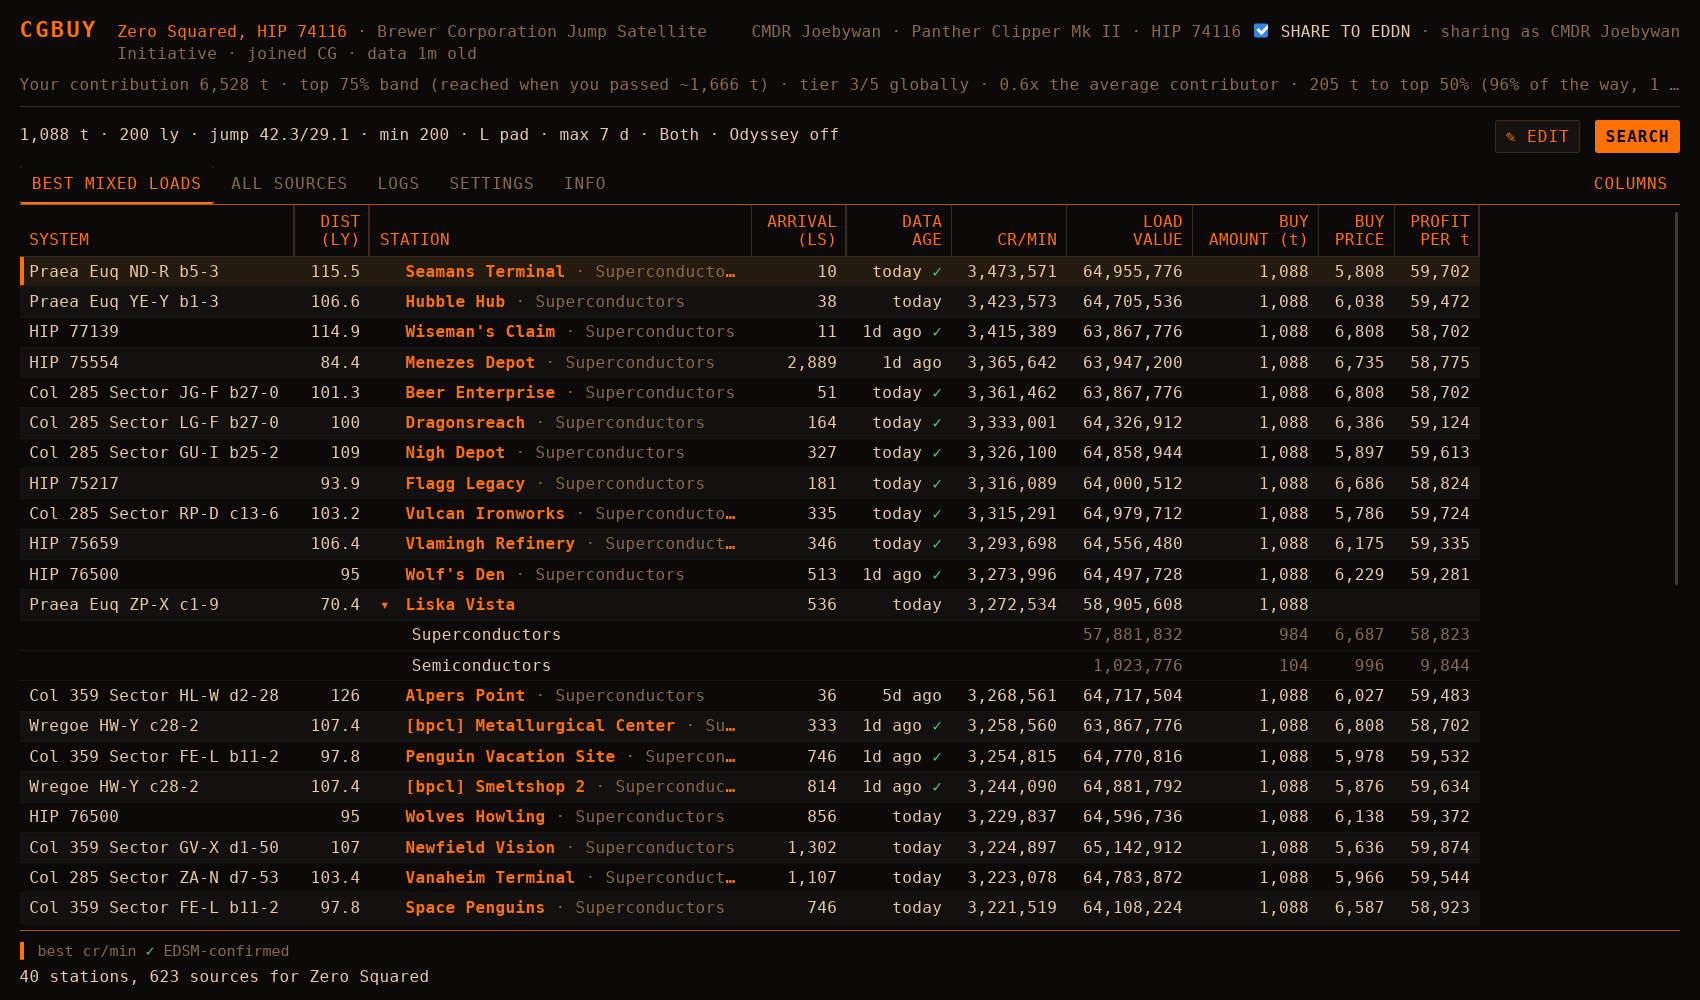
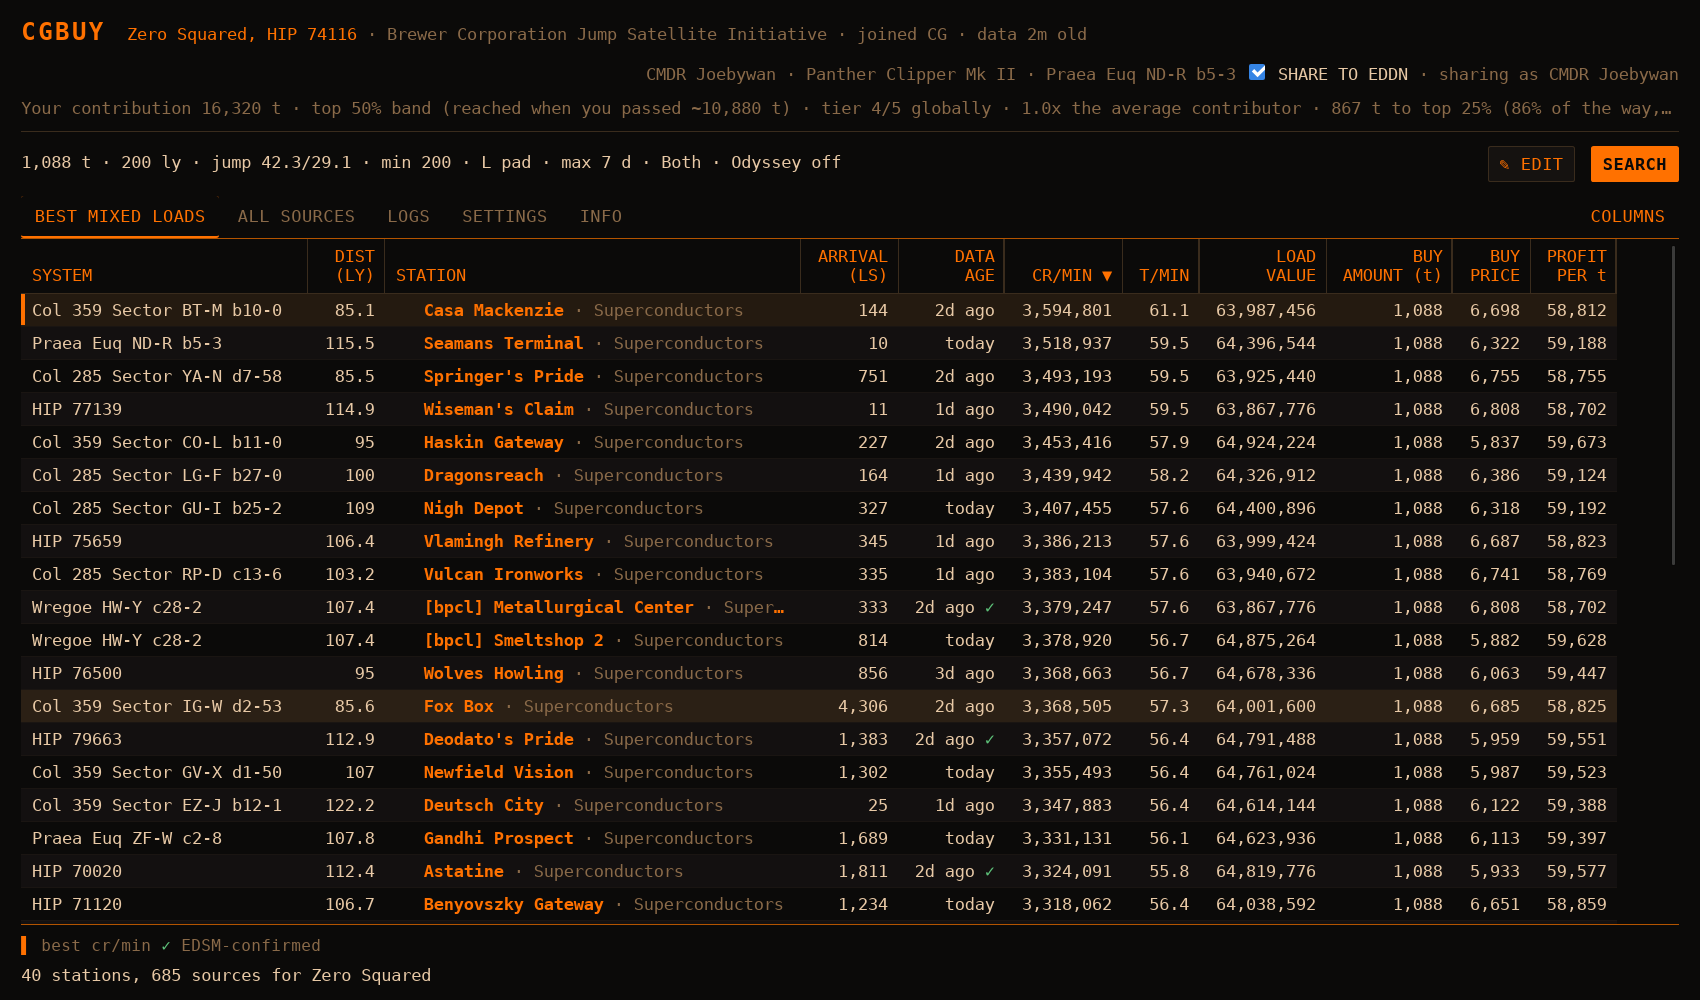
Info tab: analysis of your flying; T/MIN column on best mixed loads
YOUR FLYING on the INFO tab turns the journal calibration into plain
figures: time per jump, undock to first jump, time docked, arrival leg
as a fixed part plus travel per 1,000 Ls, where a round trip's minutes
go, measured round trip and jump range. tripParts() splits tripMinutes
so the breakdown and the ranking share one calculation.

BEST MIXED LOADS gains a sortable T/MIN column for tonnage-rewarded CGs.
Screenshots retaken, INFO screenshot added.

Changed region(s): [[0.0, 0.0, 0.9976, 0.992], [0.9041, 0.775, 0.9353, 0.837], [0.4365, 0.589, 0.4676, 0.62]]

diff --git a/app/app.js b/app/app.js
@@ -9,7 +9,7 @@ import { initSettings } from "./src/settings.js";
 import { VIEWS, colWidths, fitWidth, moveCol, placeCol, toggleCol } from "./src/columns.js";
 import { wireHeaders } from "./src/headers.js";
 import { Sender } from "./src/eddn.js";
-import { JournalState, runMinutes } from "./src/journal.js";
+import { JournalState, runMinutes, timingReport } from "./src/journal.js";
 import { clearLog, formatLog, getLog, formatLine, log, onLog } from "./src/log.js";
 import { SOURCES, searchSources } from "./src/merge.js";
 import { Progress } from "./src/progress.js";
@@ -20,7 +20,7 @@ import { edsmGate } from "./src/edsm.js";
 import { WANT, widen } from "./src/widen.js";
 import { VERSION } from "./src/version.js";
 import { checkForUpdate } from "./src/update.js";
-import { MAX_AGE_DEFAULT, ageTag, ageText, buildMixed, compareValues, hiddenBy, mixedSortValue, padForShip,
+import { MAX_AGE_DEFAULT, tripParts, ageTag, ageText, buildMixed, compareValues, hiddenBy, mixedSortValue, padForShip,
   viewRows, whereItIs } from "./src/model.js";
 
 const $ = (id) => document.getElementById(id);
@@ -237,6 +237,39 @@ function runFigures() {
   if (real) return { hold, mins: real, basis: `the median of your last ${n}, flying time plus a two-minute turnaround at each end` };
   const top = plansNow()[0];
   return { hold, mins: top?.trip_minutes ?? null, basis: "the route plus a two-minute turnaround at each end" };
+}
+
+/** INFO tab, YOUR FLYING: measured timings in plain words plus the current plan's breakdown. */
+function renderInfo() {
+  const box = $("info-flying");
+  const j = S.journal;
+  if (!j) { box.innerHTML = '<dd class="dim">Needs a journal: pick your journal folder (desktop app) to measure your own timings.</dd>'; return; }
+  const rows = timingReport(j.cal);
+  const top = plansNow()[0], r = S.result;
+  if (top && r) {
+    const f = shipFigures() ?? r.p;
+    const t = tripParts(top.ly, top.ls, r.cgLs ?? 0, f.jump_empty, f.jump_laden, j.cal);
+    const sum = Object.values(t).reduce((a, b) => a + b, 0);
+    const pct = (m) => `${m.toFixed(1)} min (${Math.round(m / sum * 100)}%)`;
+    rows.push({ label: "Where a round trip goes", value: `${sum.toFixed(1)} min to ${top.station}`,
+      detail: `jumps ${pct(t.jumps)}, departures ${pct(t.depart)}, arrival legs ${pct(t.arrive)}, docking ${pct(t.dock)}`
+        + (top.penalty ? `; ranked with +${top.penalty} min surface penalty` : "") });
+  }
+  const run = runFigures();
+  if (run.mins && run.basis.startsWith("the median")) {
+    rows.push({ label: "Measured round trip", value: `${run.mins.toFixed(1)} min`, detail: run.basis });
+  }
+  const sf = shipFigures();
+  if (sf?.jump_empty) {
+    rows.push({ label: "Jump range", value: `${sf.jump_empty} ly empty${sf.jump_laden ? `, ${sf.jump_laden} ly laden` : ""}`, detail: "" });
+  }
+  box.replaceChildren(...rows.flatMap((x) => {
+    const dt = document.createElement("dt"), dd = document.createElement("dd");
+    dt.textContent = x.label;
+    dd.textContent = x.value;
+    if (x.detail) { const d = document.createElement("span"); d.className = "dim small"; d.textContent = x.detail; dd.append(d); }
+    return [dt, dd];
+  }));
 }
 
 /** Where you stand in the goal you joined; updates on journal events and Frontier feed refreshes. */
@@ -830,6 +863,7 @@ function render() {
   renderCols();
   $("legend").hidden = true;                 // renderMixed brings it back
   if (S.view === "settings") ui.refresh();
+  if (S.view === "info") renderInfo();
   renderDest();
   const r = S.result;
   const stale = r && S.dest && !sameDest(r.p.dest, S.dest);
@@ -1002,6 +1036,7 @@ function adoptJournal({ state, lines }) {
   };
   // The game writes Market.json and then logs this, so the file is there by
   // the time we are told about it.
+  state.onCalibration = () => { if (S.view === "info") renderInfo(); };
   state.onEvent = (e) => {
     if (EDDN_KINDS.includes(e.event)) shareStation(e.event, e.MarketID ?? null);
   };

diff --git a/app/src/journal.js b/app/src/journal.js
@@ -20,6 +20,13 @@ function median(xs) {
   return s.length % 2 ? s[h] : (s[h - 1] + s[h]) / 2;
 }
 
+/** q-th quantile (0..1), linear between ranks. */
+function quantile(xs, q) {
+  const s = [...xs].sort((a, b) => a - b);
+  const i = (s.length - 1) * q, f = Math.floor(i);
+  return s[f] + (s[Math.min(f + 1, s.length - 1)] - s[f]) * (i - f);
+}
+
 const MIN_SAMPLES = 3;        // below this, one weird run would skew everything
 const MAX_SAMPLES = 200;
 const ARRIVAL_MIN_SPREAD = 3; // furthest/nearest sampled Ls, to fit at all
@@ -280,6 +287,43 @@ export class JournalState {
     if (learned && this.onCalibration) this.onCalibration(cal);
     return learned;
   }
+}
+
+const fmtSecs = (s) => (s < 120 ? `${Math.round(s)} s` : `${(s / 60).toFixed(1)} min`);
+const vs = (secs, defMin) => {
+  const pct = Math.round(Math.abs(secs / (defMin * 60) - 1) * 100);
+  return pct < 1 ? "same as the default estimate" : `${pct}% ${secs < defMin * 60 ? "faster" : "slower"} than the default estimate`;
+};
+
+/** The measured timings in plain words: [{label, value, detail}] for the INFO tab. */
+export function timingReport(cal) {
+  const rows = [];
+  const timing = (label, xs, defMin, suffix, note) => {
+    if (xs.length < MIN_SAMPLES) return rows.push({ label, value: `not enough data yet (n=${xs.length})`, detail: "" });
+    const m = median(xs);
+    const range = `typically ${fmtSecs(quantile(xs, 0.25))} to ${fmtSecs(quantile(xs, 0.75))}`;
+    rows.push({ label, value: fmtSecs(m) + suffix,
+      detail: [range, `n=${xs.length}`, defMin ? vs(m, defMin) : note].join(", ") });
+  };
+  timing("Per jump", cal.jump_secs, 0.85, " per jump");
+  timing("Getting out of the station", cal.depart_secs, 1.8, "");
+  timing("Time docked", cal.dock_secs, 0, "", "the trip model uses a fixed 2 min");
+  const pool = cal.approach_samples, fit = cal.arrivalFit;
+  if (!fit) {
+    rows.push({ label: "Arrival", value: `not enough data yet (n=${pool.length})`,
+      detail: "needs arrivals at stations of varied distance (furthest at least 3x the nearest)" });
+  } else {
+    const [a, , lo, hi] = fit;
+    const per = median(pool.filter(([l]) => l > 0).map(([l, s]) => ((s - a) / l) * 1000));
+    rows.push({ label: "Arrival: fixed part", value: fmtSecs(a),
+      detail: `drop out, approach and docking; n=${pool.length}` });
+    rows.push({ label: "Arrival: travel", value: `~${fmtSecs(Math.max(per, 0))} per 1,000 Ls`,
+      detail: "supercruise speeds up, so far stations cost less per Ls" });
+    rows.push({ label: "Arrival examples", detail: `measured over ${Math.round(lo)}-${Math.round(hi)} Ls`,
+      value: [100, 1000, 10000].map((ls) =>
+        `${ls.toLocaleString("en-US")} Ls: ${fmtSecs(cal.arrivalMinutes(ls) * 60)}${ls < lo || ls > hi ? " (extrapolated)" : ""}`).join(", ") });
+  }
+  return rows;
 }
 
 /**

diff --git a/app/src/model.js b/app/src/model.js
@@ -93,8 +93,8 @@ export function padFits(maxPadSize, pad) {
   return typeof maxPadSize === "number" && maxPadSize >= PAD_SIZE[pad];
 }
 
-/** Round trip in minutes: destination -> source empty, back laden. */
-export function tripMinutes(distLy, srcLs, cgLs, jumpEmpty, jumpLaden, cal = null) {
+/** Where a round trip's minutes go: {jumps, depart, arrive, dock}; tripMinutes sums them. */
+export function tripParts(distLy, srcLs, cgLs, jumpEmpty, jumpLaden, cal = null) {
   const jumpMin = cal?.jumpMinutes || EST_JUMP_MIN;
   const departMin = cal?.departMinutes || EST_DEPART_MIN;
   const scScale = cal?.scScale || EST_SC_SCALE;
@@ -105,9 +105,14 @@ export function tripMinutes(distLy, srcLs, cgLs, jumpEmpty, jumpLaden, cal = nul
   const outJ = distLy > 0 ? Math.ceil(distLy / jumpEmpty) : 0;
   const backJ = distLy > 0 ? Math.ceil(distLy / jumpLaden) : 0;
   // The first jump of each leg is already inside departure and the arrival leg.
-  const jumps = (Math.max(outJ - 1, 0) + Math.max(backJ - 1, 0)) * jumpMin;
-  const legs = arrival(srcLs) + arrival(cgLs);
-  return Math.max(jumps + legs + (EST_DOCK_MIN + departMin) * 2, 0.5);
+  return { jumps: (Math.max(outJ - 1, 0) + Math.max(backJ - 1, 0)) * jumpMin,
+    depart: departMin * 2, arrive: arrival(srcLs) + arrival(cgLs), dock: EST_DOCK_MIN * 2 };
+}
+
+/** Round trip in minutes: destination -> source empty, back laden. */
+export function tripMinutes(distLy, srcLs, cgLs, jumpEmpty, jumpLaden, cal = null) {
+  const t = tripParts(distLy, srcLs, cgLs, jumpEmpty, jumpLaden, cal);
+  return Math.max(t.jumps + t.arrive + (t.dock + t.depart), 0.5);
 }
 
 /** The view filters and the surface penalty, applied to cached rows.
@@ -170,6 +175,7 @@ export function buildMixed(rows, hold) {
       src: top.src, edsm: items.some((i) => i.edsm),   // which reading it is, for the watcher's "why"
       supply: mix.reduce((n, m) => n + m.supply, 0),   // stock of the commodities in the load, summed
       trip_minutes: top.trip_minutes, total, cr_per_min: Math.round(total / top.trip_minutes), mix,
+      t_per_min: Math.round((hold - remaining) / top.trip_minutes * 10) / 10,
     });
   }
   plans.sort((a, b) => b.cr_per_min - a.cr_per_min);

diff --git a/app/test/journal.test.js b/app/test/journal.test.js
@@ -2,7 +2,7 @@
 // TestShipIdentity, TestLadenJumpRange.
 import test from "node:test";
 import assert from "node:assert/strict";
-import { Calibration, JournalState, estScMinutes, ladenJumpRange, parseTs, runMinutes }
+import { Calibration, JournalState, estScMinutes, ladenJumpRange, parseTs, runMinutes, timingReport }
   from "../src/journal.js";
 
 const near = (a, b, eps = 1e-9) =>
@@ -266,4 +266,30 @@ test("runMinutes: median flying time per round trip plus turnaround, repairs and
   // undock/dock at the same pad is a repair, not a run
   const rep = [["dock", "Home", 0], ["undock", "Home", 10], ["dock", "Home", 700], ["undock", "Home", 710], ["dock", "Home", 900]];
   assert.deepEqual(runMinutes(rep, "Home", 1), [null, 0]);
+});
+
+// -- timingReport -----------------------------------------------------------
+
+test("timingReport: not enough data", () => {
+  const rows = timingReport(new Calibration({ jump_secs: [30, 40] }));
+  assert.equal(rows[0].label, "Per jump");
+  assert.equal(rows[0].value, "not enough data yet (n=2)");
+  assert.match(rows.at(-1).detail, /varied distance/);
+});
+
+test("timingReport: medians, ranges and the per-1000-Ls arrival figure", () => {
+  const cal = new Calibration({
+    jump_secs: [30, 40, 50, 60, 70], depart_secs: [100, 110, 120], dock_secs: [90, 100, 130],
+    approach_samples: [[100, 60], [100, 62], [1000, 90], [1000, 94], [10000, 140], [10000, 146]],
+  });
+  const rows = Object.fromEntries(timingReport(cal).map((r) => [r.label, r]));
+  assert.equal(rows["Per jump"].value, "50 s per jump");
+  assert.match(rows["Per jump"].detail, /typically 40 s to 60 s, n=5, 2% faster/);
+  assert.equal(rows["Getting out of the station"].value, "110 s");
+  assert.match(rows["Time docked"].detail, /fixed 2 min/);
+  const [a] = cal.arrivalFit;
+  assert.ok(a > 0);
+  assert.match(rows["Arrival: travel"].value, /^~\d+ s per 1,000 Ls$/);
+  assert.match(rows["Arrival examples"].value, /100 Ls: .*1,000 Ls: .*10,000 Ls: /);
+  assert.ok(!rows["Arrival examples"].value.includes("extrapolated"));
 });

diff --git a/app/src/columns.js b/app/src/columns.js
@@ -16,6 +16,7 @@ export const MIXED_COLS = [
     st: (p) => p.updated },
   { id: "cr_per_min", label: "CR/MIN", num: true, key: "cr_per_min", title: "Profit per minute of round trip for the whole mixed load; the ranking figure.",
     st: (p) => p.cr_per_min },
+  { id: "t_per_min", label: "T/MIN", num: true, raw: true, key: "t_per_min", title: "Tonnes of the load moved per minute of round trip; sort by this when the goal rewards tonnage.", st: (p) => p.t_per_min },
   { id: "total", label: "LOAD\nVALUE", num: true, key: "total", title: "Total profit (cr) from selling the whole load. Sub-rows show each commodity's share.",
     st: (p) => p.total, ch: (m) => m.value },
   { id: "tonnes", label: "BUY\nAMOUNT (t)", num: true, key: "tonnes", w: 9, title: "Tonnes to buy to fill your hold: the station total, and per commodity on sub-rows.",
@@ -56,7 +57,7 @@ export const SINGLE_COLS = [
 
 export const DEFAULT_SINGLE = SINGLE_COLS.map((c) => c.id).filter((id) => id !== "body" && id !== "pad");
 
-export const DEFAULT_MIXED = ["system", "ly", "station", "ls", "updated", "cr_per_min", "total", "tonnes", "buy", "profit_per_t"];
+export const DEFAULT_MIXED = ["system", "ly", "station", "ls", "updated", "cr_per_min", "t_per_min", "total", "tonnes", "buy", "profit_per_t"];
 
 /** The two column sets: ids, defaults and the registry behind each tab. */
 export const VIEWS = {

diff --git a/app/test/model.test.js b/app/test/model.test.js
@@ -98,6 +98,7 @@ test("greedy packing fills the hold best first", () => {
   assert.equal(p.short, 0);
   assert.equal(p.total, 40 * 1000 + 60 * 500);
   assert.equal(p.cr_per_min, Math.round(p.total / 20));
+  assert.equal(p.t_per_min, 5);   // 100 t over a 20 minute trip
 });
 
 test("input order does not matter", () => {
@@ -262,4 +263,12 @@ test("a mixed plan inherits the station's body from its rows", () => {
   assert.equal(plan.planetary, true);
   assert.equal(plan.body, "Mercury");
   assert.equal(m.whereItIs(plan), "Planetary Outpost — on Mercury");
+});
+
+test("tripParts sums to tripMinutes", () => {
+  const cal = new Calibration({ jump_secs: [30, 40, 50], depart_secs: [100, 110, 120] });
+  const args = [60, 1000, 500, 30, 25];
+  const t = m.tripParts(...args, cal);
+  assert.equal(m.tripMinutes(...args, cal), t.jumps + t.arrive + (t.dock + t.depart));
+  near(t.dock, 4);
 });

diff --git a/app/style.css b/app/style.css
@@ -221,6 +221,10 @@ td.src { width: 3em; text-align: center; color: var(--dim); }
 .settings h2 { margin: 16px 0 4px; color: var(--or); font-size: 13px; letter-spacing: .08em; font-weight: normal; }
 .settings .row { display: flex; flex-wrap: wrap; align-items: center; gap: 8px; margin: 4px 0; }
 .settings p { margin: 4px 0; }
+#info-flying { display: grid; grid-template-columns: max-content 1fr; gap: 2px 14px; }
+#info-flying dt { color: var(--dim, inherit); }
+#info-flying dd { margin: 0; }
+#info-flying .small { display: block; }
 .settings input[type="number"] { width: 6em; }
 .bad { color: var(--bad); }
 main[data-view="settings"] #empty, main[data-view="settings"] #age-line,

diff --git a/app/test/columns.test.js b/app/test/columns.test.js
@@ -5,7 +5,7 @@ import { loadPrefs } from "../src/prefs.js";
 import { buildMixed } from "../src/model.js";
 
 test("defaults are today's columns and all registered", () => {
-  assert.equal(DEFAULT_MIXED.length, 10);
+  assert.equal(DEFAULT_MIXED.length, 11);
   assert.deepEqual(loadPrefs(null).cols_mixed, DEFAULT_MIXED);
   for (const id of DEFAULT_MIXED) assert.ok(MIXED_COLS.some((c) => c.id === id));
   for (const c of MIXED_COLS) assert.ok(c.title && c.label);

diff --git a/app/index.html b/app/index.html
@@ -121,6 +121,8 @@
     <button id="s-reset" type="button">RESET TIMINGS</button>
   </section>
   <section id="wrap-info" class="settings" hidden>
+    <h2>YOUR FLYING</h2>
+    <dl id="info-flying"></dl>
     <h2>DATA</h2>
     <p>Market data from <span id="credit-src"><a href="https://ardent-insight.com" target="_blank" rel="noopener">Ardent Insight</a></span>, goals from Frontier.</p>
     <p>Click a row to copy its system.</p>

diff --git a/README.md b/README.md
@@ -192,6 +192,10 @@ last copied. On `AGE`, a green ✓ means EDSM confirmed the reading and a dim ?
 means Spansh data still waiting for its EDSM check. Hover a row for the same
 explanation; the footer legend lists whichever markers are on screen, and the
 **INFO** tab explains all of them, with the credits, the version and the update status.
+It also shows **YOUR FLYING**, the jump, docking and arrival times measured from your journal that the
+trip estimates use:
+
+![Info](screenshots/04-info.png)
 
 Once results are up, the search controls and DESTINATION fold into one summary line
 (with SEARCH still on it); ✎ EDIT unfolds them until the next search. Alerts: a banner
